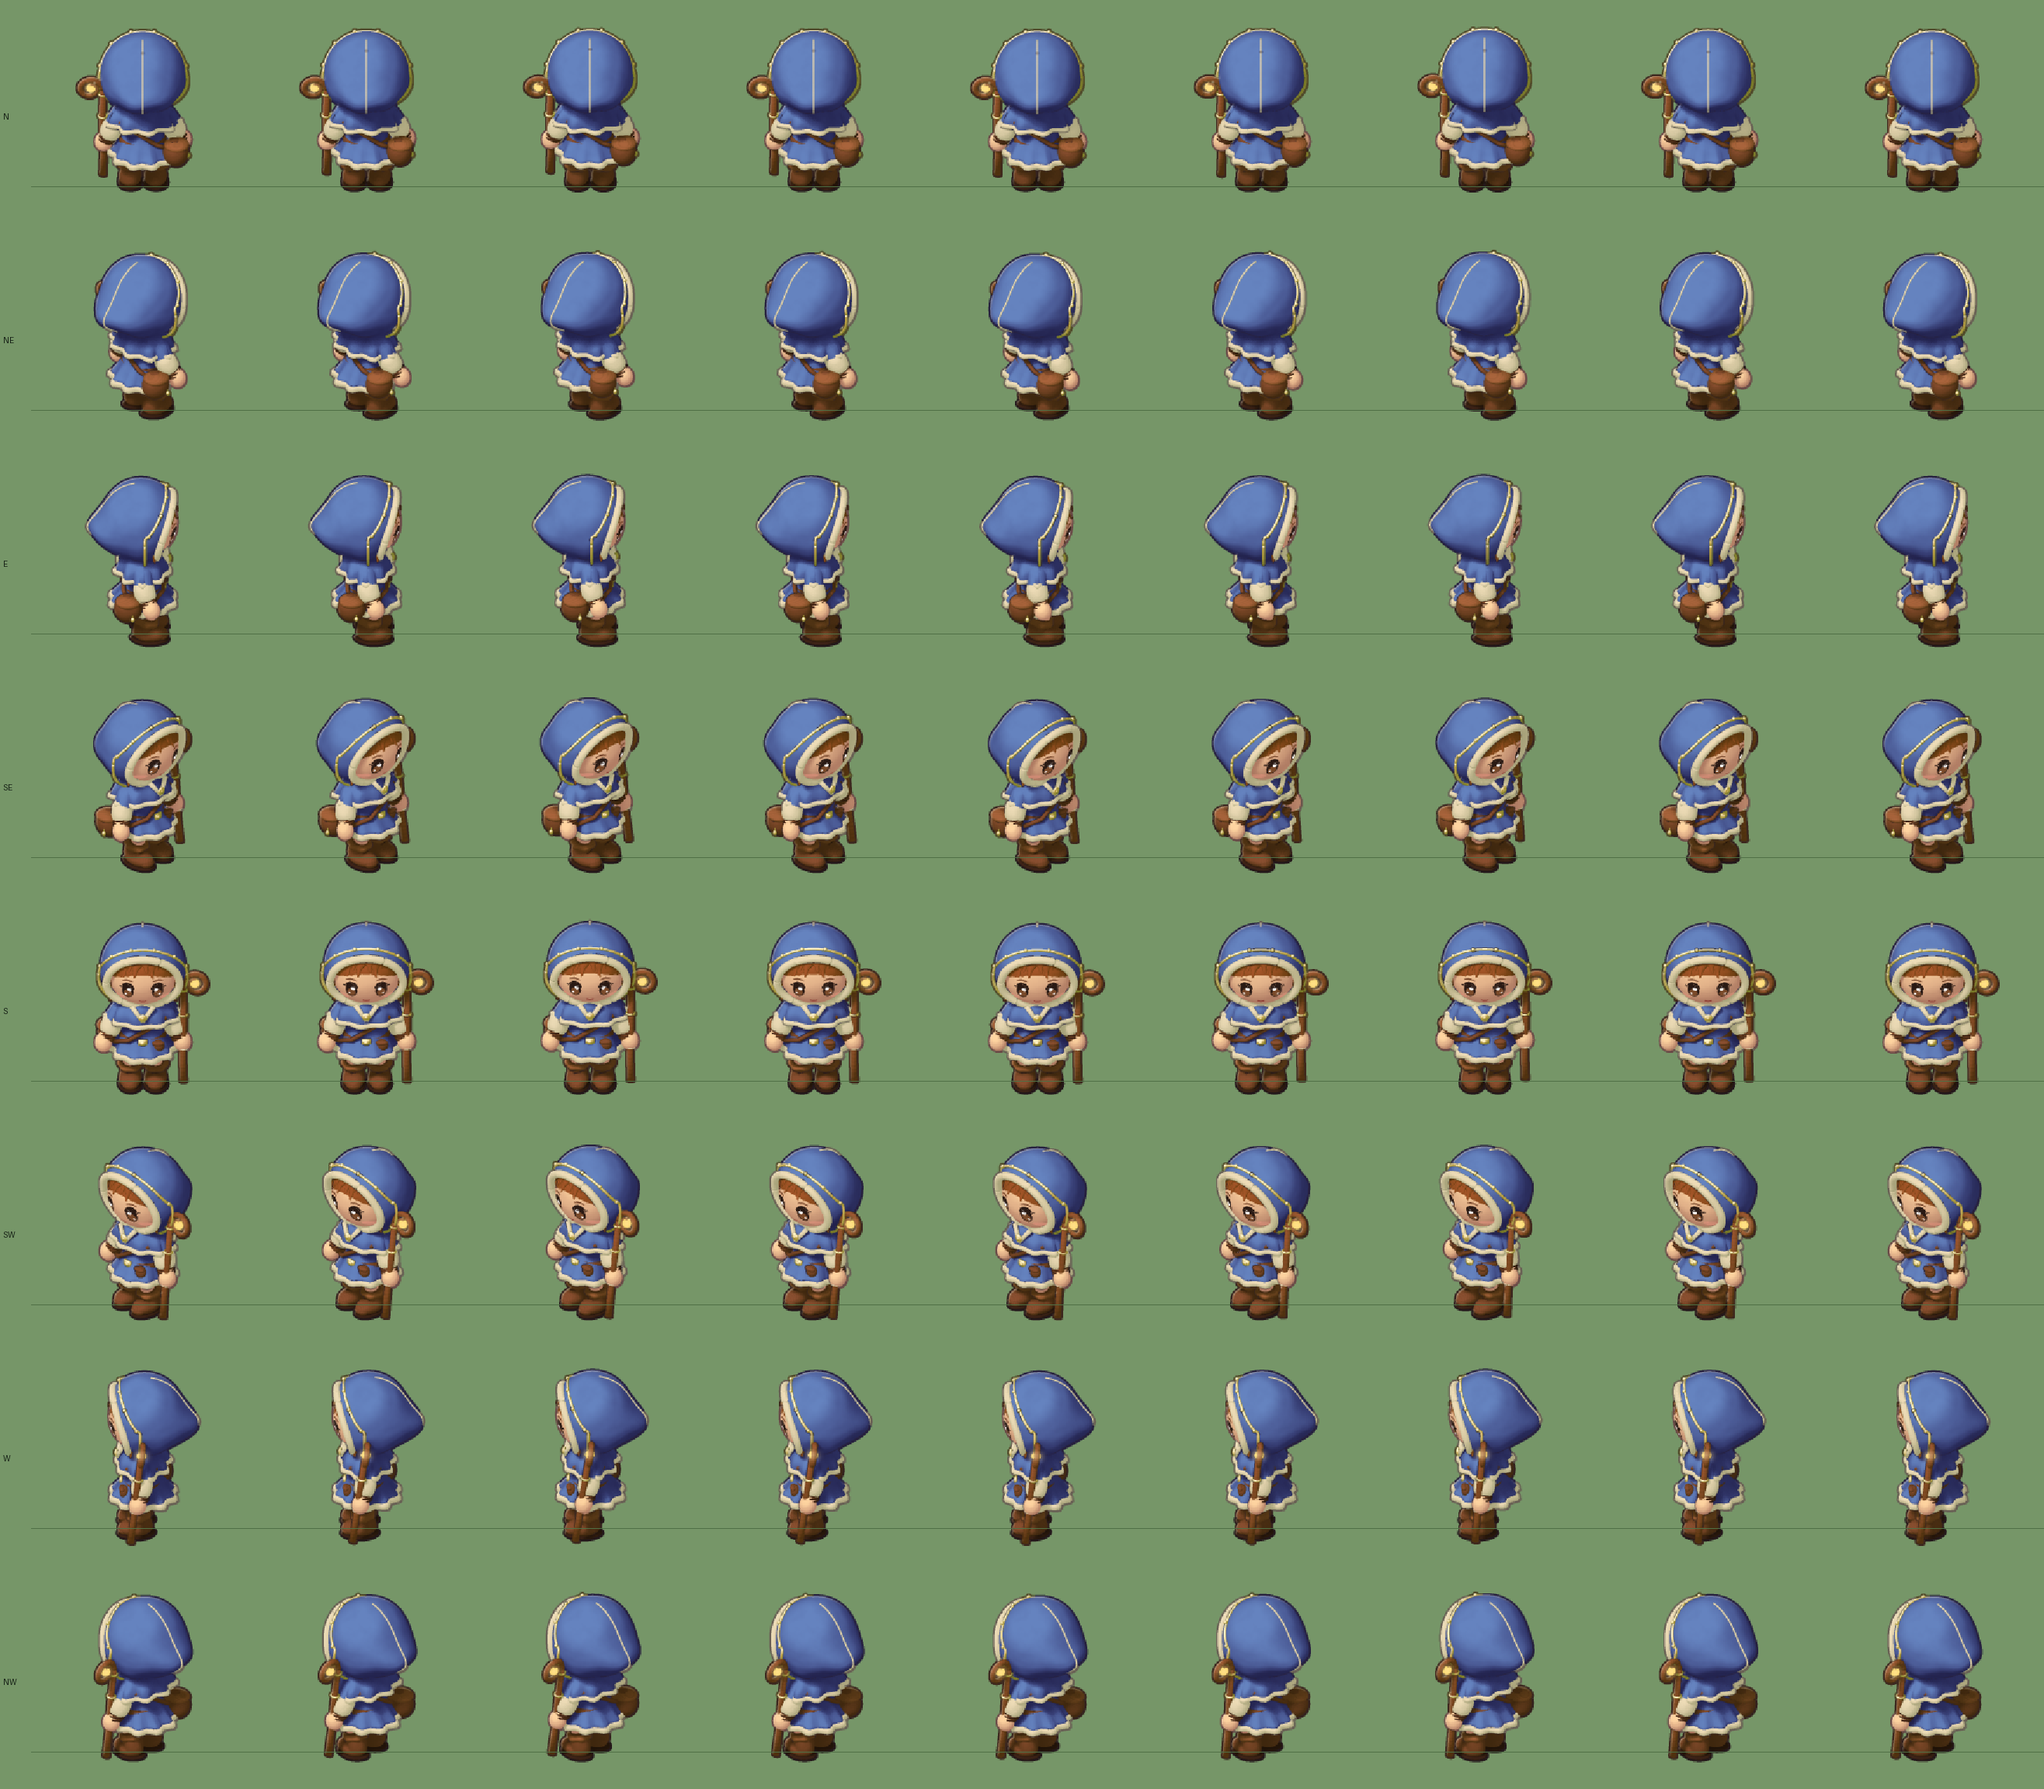
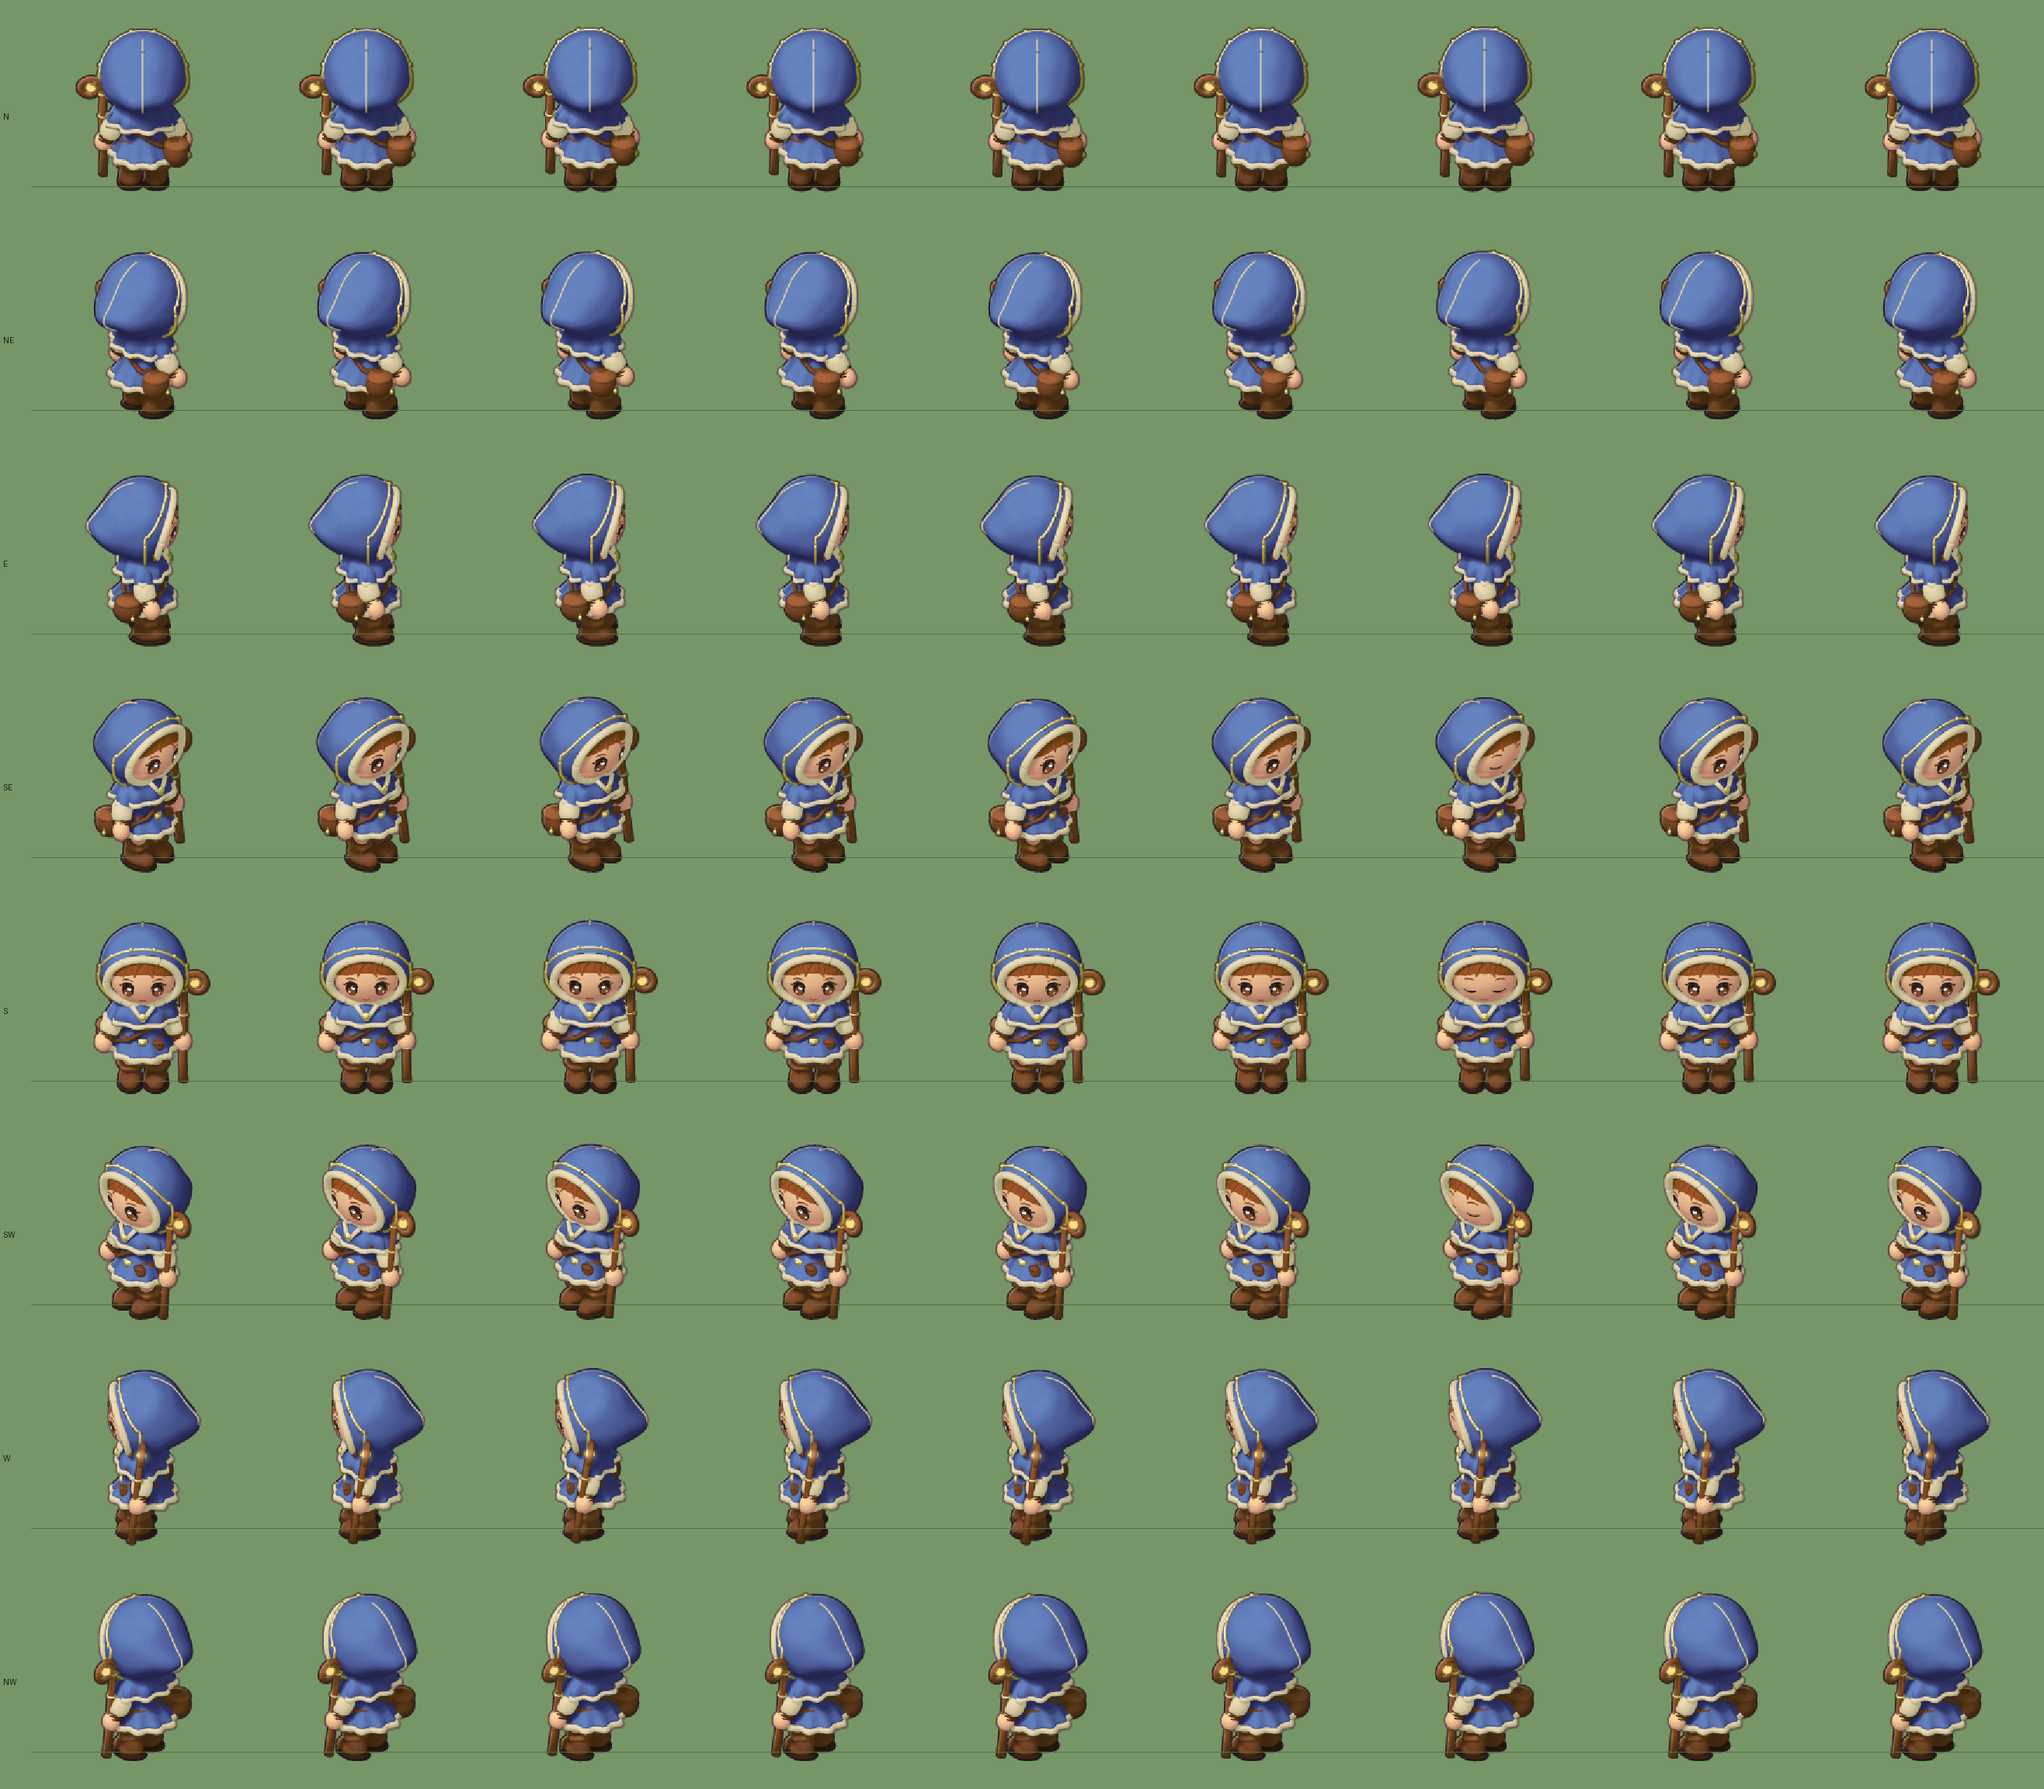
Piscar no idle pelo decalque do rosto; site atualizado

diff --git a/index.html b/index.html
@@ -78,6 +78,7 @@ footer{max-width:1080px;margin:auto;padding:24px 16px;color:var(--soft);font-siz
     <div class="card wide"><img src="docs/audit/suave/animacoes/walk_8dir.gif" alt="Aprendiz caminhando nas oito direções, acabamento suave" loading="lazy"><p><b>Atual:</b> Aprendiz detalhado no acabamento suave, caminhada nas 8 direções, 192 px, 12 fps.</p></div>
     <div class="card"><img src="docs/audit/suave/animacoes/run_8dir.gif" alt="Corrida nas oito direções" loading="lazy"><p>Corrida, 16 fps.</p></div>
     <div class="card"><img src="docs/audit/suave/animacoes/idle_8dir.gif" alt="Idle nas oito direções" loading="lazy"><p>Idle, 8 fps.</p></div>
+    <div class="card"><img src="docs/audit/suave/piscar.png" alt="Piscar" loading="lazy"><p><b>Evolução 4:</b> expressão por quadro, com uma piscada no idle (o rosto é desenho, então trocar expressão é trocar a forma).</p></div>
     <div class="card wide"><img src="docs/audit/suave/evolucao_rosto_decalque.png" alt="Rosto como decalque vetorial" loading="lazy"><p><b>Evolução 3:</b> o rosto virou um decalque vetorial procedural preso à cabeça. Antes, era geometria 3D fina que brigava com sombra e franja (<a href="docs/audit/suave/rosto_antes_geometria.png">antes</a>).</p></div>
     <div class="card wide"><img src="docs/audit/suave/evolucao_faixa_bordada.png" alt="Evolução: faixa bordada, luz de borda e textura" loading="lazy"><p><b>Evolução 2:</b> faixa bordada dourada com contas, luz de borda no lado iluminado e textura contínua no tecido.</p></div>
     <div class="card wide"><img src="docs/audit/suave/e1_rim_ruido_antes_depois.png" alt="Antes e depois do experimento E1" loading="lazy"><p>Experimento E1/E2: em cima, antes; embaixo, com luz de borda e ruído de baixa frequência (efeito sutil).</p></div>
@@ -102,6 +103,7 @@ footer{max-width:1080px;margin:auto;padding:24px 16px;color:var(--soft);font-siz
     <li><b>2026-11-07</b>: evolução 2 do acabamento suave: luz de borda, textura contínua e faixa bordada no capuz.</li>
     <li><b>2026-11-07</b>: evolução 3: rosto como decalque vetorial procedural (feedback do usuário), mechas por curva e <code>seed</code> na ficha.</li>
     <li><b>2026-11-07</b>: atlas recortado: −62% de memória de vídeo por personagem.</li>
+    <li><b>2026-11-07</b>: sonda de chão e túnica dentro do gate G5 (ANI-005); piscar no idle.</li>
   </ol>
 </section>
 

diff --git a/engines/postprocess_engine/smooth.py b/engines/postprocess_engine/smooth.py
@@ -50,8 +50,15 @@ def _disk(radius: float) -> np.ndarray:
     return x * x + y * y <= radius * radius
 
 
-def apply_face_decal(rgb: np.ndarray, p: Passes, parts: list[dict], decal: dict, head: list) -> None:
-    """Projeta os traços do rosto (laços 3D presos à cabeça) e pinta só sobre pixels da cabeça."""
+OPEN_EYE = ("eye_", "iris_", "shine_", "shine2_", "lash_")
+
+
+def apply_face_decal(rgb: np.ndarray, p: Passes, parts: list[dict], decal: dict, head: list,
+                     blink: bool = False) -> None:
+    """Projeta os traços do rosto (laços 3D presos à cabeça) e pinta só sobre pixels da cabeça.
+
+    ``blink``: troca os olhos abertos pelo traço de olho fechado (expressão por quadro).
+    """
     head_index = next((q["index"] for q in parts if q["name"] == "head"), None)
     if head_index is None:
         return
@@ -63,6 +70,9 @@ def apply_face_decal(rgb: np.ndarray, p: Passes, parts: list[dict], decal: dict,
     mh = np.array(head)
     toward_viewer = cam[:3, 2] / np.linalg.norm(cam[:3, 2])
     for feat in decal["features"]:
+        is_open, is_closed = feat["name"].startswith(OPEN_EYE), feat["name"].startswith("closed_")
+        if (blink and is_open) or (not blink and is_closed):
+            continue
         facing = float(np.dot(mh[:3, :3] @ np.array(feat["normal"]), toward_viewer))
         if facing < .02:
             continue
@@ -78,7 +88,7 @@ def apply_face_decal(rgb: np.ndarray, p: Passes, parts: list[dict], decal: dict,
 
 
 def compose_smooth(p: Passes, parts: list[dict], cfg: SmoothArtSettings,
-                   decal: dict | None = None, head: list | None = None) -> Image.Image:
+                   decal: dict | None = None, head: list | None = None, blink: bool = False) -> Image.Image:
     ss = cfg.supersample
     h, w = p.ids.shape
     rgb = np.zeros((h, w, 3))
@@ -115,7 +125,7 @@ def compose_smooth(p: Passes, parts: list[dict], cfg: SmoothArtSettings,
                 colors = colors * (1 - k[:, None]) + hex_rgb(role.highlight) * k[:, None]
             rgb[mask] = colors
     if decal is not None and head is not None:
-        apply_face_decal(rgb, p, parts, decal, head)
+        apply_face_decal(rgb, p, parts, decal, head, blink)
     # Luz de borda: faixa junto à silhueta, só onde a normal de tela aponta para a luz.
     if cfg.rim_px > 0 and cfg.rim_strength > 0:
         inside = ndimage.distance_transform_edt(solid)
@@ -194,8 +204,9 @@ def compose_folder(passes_root: Path, frames_root: Path, cfg: SmoothArtSettings,
             files = []
             heads = json.loads((src / "head.json").read_text(encoding="utf-8")) if decal else None
             for frame in range(clip["frame_count"]):
+                blink = name == "idle" and frame == clip["frame_count"] - 2  # uma piscada por ciclo
                 image = compose_smooth(load_passes(src, frame, depth_range), parts, cfg,
-                                       decal, heads[frame] if heads else None)
+                                       decal, heads[frame] if heads else None, blink)
                 path = dst / f"{name}_{direction}_{frame:04d}.png"
                 image.save(path, optimize=True)
                 files.append(str(path))

diff --git a/blender/scripts/ics_blender/face_decal.py b/blender/scripts/ics_blender/face_decal.py
@@ -64,6 +64,9 @@ def features(params):
                        end=math.radians(160 if k > 0 else 20))
         arc.append((ex + k * .046, ez + .026))
         add(f"lash_{k}", eye_color, _band(arc, lambda t: .006 + .006 * math.sin(math.pi * t)), centre=(ex, ez + .04))
+        # Olho fechado (piscar): arco curvado para baixo, com cílio no canto.
+        closed = [(ex - .034 + .068 * t, ez - .004 - .012 * math.sin(math.pi * t)) for t in [i / 10 for i in range(11)]]
+        add(f"closed_{k}", eye_color, _band(closed, lambda t: .006 + .004 * math.sin(math.pi * t)), centre=(ex, ez))
         brow = [(ex - k * .026, ez + .086), (ex, ez + .094), (ex + k * .03, ez + .088)]
         brow = [(brow[0][0] + (brow[2][0] - brow[0][0]) * t, ez + .066 + .008 * math.sin(math.pi * t) + .003 * (1 - t))
                 for t in [i / 8 for i in range(9)]]

diff --git a/tests/unit/test_face_decal.py b/tests/unit/test_face_decal.py
@@ -36,3 +36,14 @@ def test_decal_facing_away_is_hidden():
     rgb = np.full((40, 40, 3), 200.0)
     apply_face_decal(rgb, p, PARTS, decal, np.eye(4).tolist())
     assert (rgb == 200.0).all()
+
+
+def test_blink_swaps_open_eye_for_closed_stroke():
+    p, decal = scene([0, 0, 1])
+    closed = dict(decal["features"][0], name="closed_1", color="#FF0000")
+    decal["features"] = [dict(decal["features"][0], name="eye_1"), closed]
+    open_rgb = np.full((40, 40, 3), 200.0)
+    apply_face_decal(open_rgb, p, PARTS, decal, np.eye(4).tolist(), blink=False)
+    blink_rgb = np.full((40, 40, 3), 200.0)
+    apply_face_decal(blink_rgb, p, PARTS, decal, np.eye(4).tolist(), blink=True)
+    assert open_rgb[20, 20, 0] < 50 and blink_rgb[20, 20, 0] > 200

diff --git a/docs/DECISIONS.md b/docs/DECISIONS.md
@@ -88,4 +88,5 @@ Regras de aprovação 1 a 8: [MASTER_QUALITY_CRITERIA.md](MASTER_QUALITY_CRITERI
 | IMP-050 | Atlas recortado | `RenderProfile.atlas_trim`: caixa justa por quadro + `ox`/`oy`; o Godot reconstrói o quadro com `AtlasTexture.margin` | Recomendação P1; memória do MMORPG | 192 px: VRAM de 27,9 para **10,6 MiB** por personagem; GODOT-001/002 PASS | Aprovada pelo agente |
 | IMP-051 | Pivô inteiro | Perfis `isometric_smooth_*` com pivô arredondado | Meio pixel (160,5) deslocava a região recortada no Godot e reprovava o GODOT-002 | Perfis antigos mantidos | Aprovada pelo agente |
 | IMP-052 | Sonda de pose nos gates | ANI-005 no G5: chão por peça (falha < −5 mm, aviso < −1 mm) e coxa × túnica (aviso > 15 mm), com cache no animate | Recomendação P1 (produtividade) | Os defeitos de chão e túnica da auditoria agora barram o pipeline sozinhos | Aprovada pelo agente |
+| IMP-053 | Expressão por quadro | Piscar no idle (penúltimo quadro): o decalque troca os olhos abertos pelo traço fechado | Vida em movimento sem custo de render | Base para expressões de ataque, dano e morte | Aprovada pelo agente |
 
